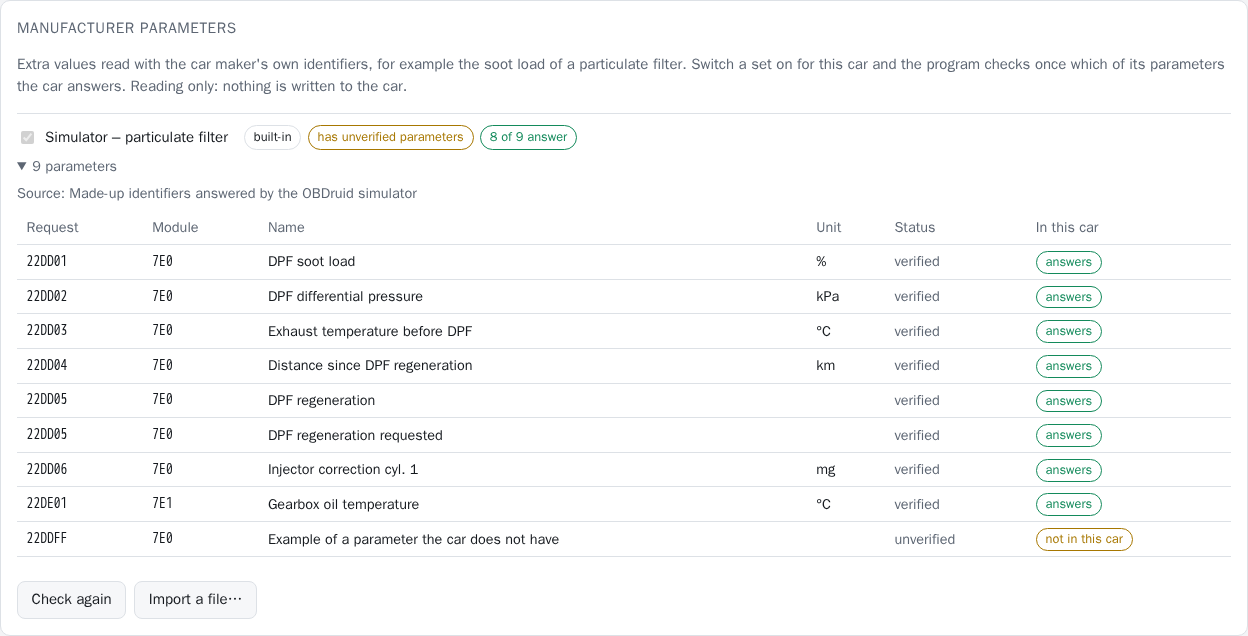
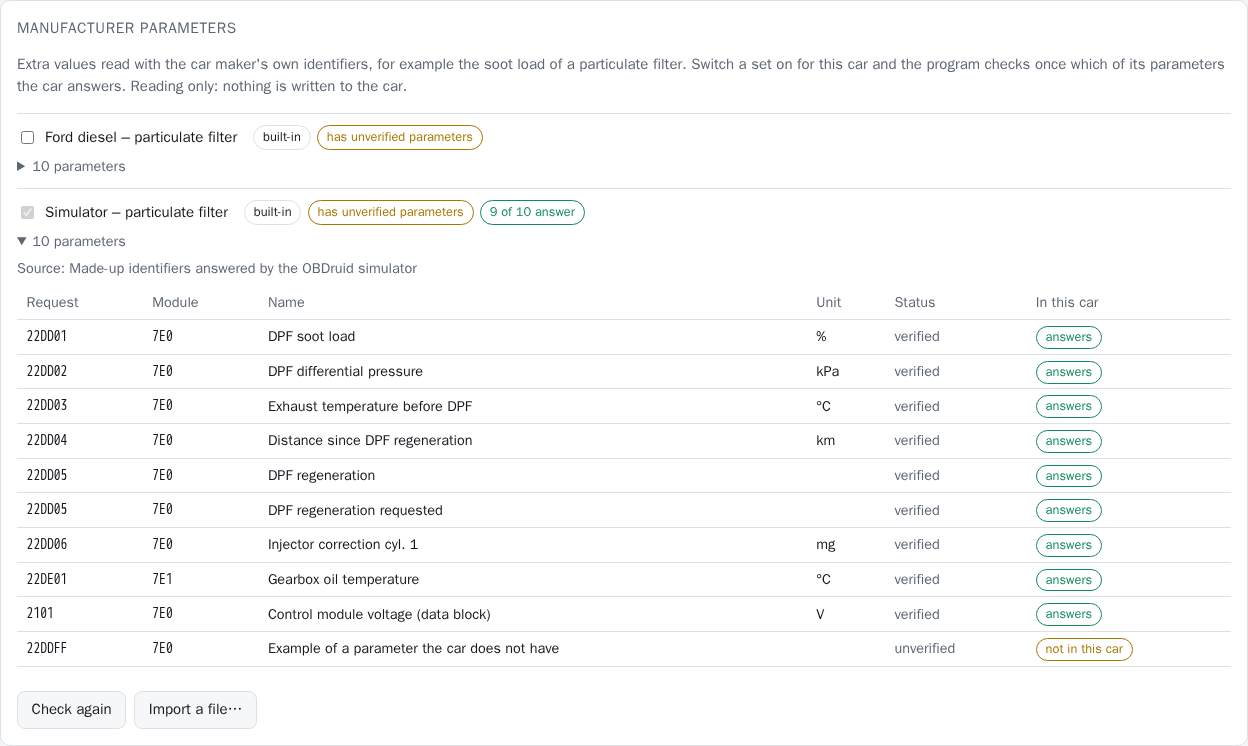
PID sets: service 21, bytes beyond Z, Ford diesel DPF candidates
- service 21 (ReadDataByLocalIdentifier) allowed next to 01 and 22; formula letters AA, AB... for long answers
- built-in set ford-diesel-dpf converted from OBDb (CC BY-SA 4.0), all parameters unverified
- set license shown in the UI and noted in the README

diff --git a/src/obdruid/web/static/app.js b/src/obdruid/web/static/app.js
@@ -1373,7 +1373,7 @@ function renderPidSets(data) {
       el("thead", {}, el("tr", {}, ...["Request", "Module", "Name", "Unit", "Status", "In this car"].map(h => el("th", { text: h })))), rows);
     const details = el("details", { class: "pidset" },
       el("summary", { text: t("{n} parameters", { n: s.params.length }) }),
-      s.source ? el("p", { class: "muted" }, `${t("Source")}: ${s.source}`) : null,
+      s.source ? el("p", { class: "muted" }, `${t("Source")}: ${s.source}` + (s.license ? ` · ${t("License")}: ${s.license}` : "")) : null,
       s.note ? el("p", { class: "muted" }, s.note) : null,
       el("div", { class: "table-wrap" }, table));
     box.append(el("div", { class: "pidset-item" }, head, details));

diff --git a/tests/test_custom_pids.py b/tests/test_custom_pids.py
@@ -68,6 +68,7 @@ formula = "A+B"
     ("(A<<8|B)&0x0FFF", bytes([0xF1, 0x23]), 0x123),
     ("-A%7+max(A,B)", bytes([10, 3]), 14),         # -10 % 7 = 4 in Python
     ("A//2", bytes([7]), 3),
+    ("AB/10+Z", bytes(25) + bytes([1, 0, 141]), 15.1),   # Z is byte 26, AA 27, AB 28
 ])
 def test_formula_values(text, data, expected):
     assert Formula(text)(data) == pytest.approx(expected)
@@ -82,7 +83,7 @@ def test_formula_reports_missing_bytes_and_bad_maths_as_no_value():
 
 @pytest.mark.parametrize("text", [
     "__import__('os').system('true')", "A.real", "open('x')", "A if B else C", "[A]", "A**B", "lambda: A",
-    "'text'", "True", "AB + 1", "a + 1", "A; B", "signed(A, x=1)", "eval(A)", "A == B", "~A", "", "A" * 300,
+    "'text'", "True", "ABC + 1", "a + 1", "A; B", "signed(A, x=1)", "eval(A)", "A == B", "~A", "", "A" * 300,
     "(" * 150 + "A" + ")" * 150,
 ])
 def test_formula_rejects_everything_but_arithmetic(text):
@@ -111,6 +112,7 @@ def test_parse_set():
     (('request = "22DDFF"', 'request = "3101FF00"'), "Service 31 is not allowed"),   # routine (forced regeneration)
     (('request = "22DDFF"', 'request = "1003"'), "Service 10 is not allowed"),       # session change
     (('request = "22DDFF"', 'request = "04"'), "Invalid request"),
+    (('request = "22DDFF"', 'request = "210101"'), "takes 1 identifier byte"),
     (('request = "22DDFF"', 'request = "22DD"'), "takes 2 identifier byte"),
     (('header = "7E2"', 'header = "720"'), "Unsupported header"),
     (('formula = "A+B"', 'formula = "__import__(1)"'), "Invalid formula"),
@@ -132,7 +134,13 @@ def test_parse_set_refuses_broken_files():
 
 def test_builtin_sets_are_valid_and_translated(tmp_path):
     sets, errors = custom_pids.load_sets(None)
-    assert errors == [] and "simulator" in [s.id for s in sets]
+    assert errors == [] and {"simulator", "ford-diesel-dpf"} <= {s.id for s in sets}
+    ford = next(s for s in sets if s.id == "ford-diesel-dpf")
+    assert ford.license == "CC BY-SA 4.0" and "OBDb" in ford.source          # attribution travels with the data
+    assert all(p.status == "unverified" for p in ford.params)                # nothing claimed before a car test
+    assert ford.suggested_for("WF0XXXTTFX1234567", 2010, "diesel") and not ford.suggested_for(None, None, "diesel")
+    assert custom_pids.byte_name(0) == "A" and custom_pids.byte_name(27) == "AB"
+    assert all(custom_pids.byte_index(custom_pids.byte_name(n)) == n for n in range(700))
     for s in sets:
         assert s.source, s.id                      # every shipped set says where its data comes from
         for p in s.params:
@@ -148,6 +156,9 @@ def test_builtin_sets_are_valid_and_translated(tmp_path):
 def test_read_did(session):
     vin = session.read_did("22 f1 90")
     assert vin.ok and vin.data == b"SIM1234567890ABCD" and vin.result == "ok"   # multi frame answer
+    block = session.read_did("2101")                                             # service 21 data block
+    assert block.ok and len(block.data) == 32 and block.data[27] == 141
+    assert session.read_did("2102").nrc == 0x31
     refused = session.read_did("22DDFF")
     assert not refused.ok and refused.nrc == 0x31 and refused.result == "nrc31"
     assert session.read_did("22DE01", "7E1").data is not None                   # transmission module
@@ -201,14 +212,14 @@ def test_one_request_serves_all_parameters_of_an_identifier(tmp_path):
         assert results["X_SIMULATOR_NOT_IN_THIS_CAR"] == "nrc31"
         assert storage.get(vehicle["id"])["pid_probe"] == results           # remembered in the profile
         keys = [p.key for p in s.supported_params() if p.source == "simulator"]
-        assert "X_SIMULATOR_NOT_IN_THIS_CAR" not in keys and len(keys) == 8
+        assert "X_SIMULATOR_NOT_IN_THIS_CAR" not in keys and len(keys) == 9
         seen = s._emulator.commands_seen
         before = len(seen)
         values = {r.key: r.value for r in s.read(keys)}
         assert seen[before:].count("22DD05") == 1                             # two parameters, one request
         assert values["X_SIMULATOR_DPF_REGEN"] == "active" and values["X_SIMULATOR_DPF_REGEN_REQUEST"] == "yes"
         assert values["X_SIMULATOR_DPF_TEMP"] > 550 and values["X_SIMULATOR_INJ_CORRECTION_1"] == -0.35
-        assert 70 < values["X_SIMULATOR_GEARBOX_OIL_TEMP"] < 85
+        assert 70 < values["X_SIMULATOR_GEARBOX_OIL_TEMP"] < 85 and values["X_SIMULATOR_MODULE_VOLTAGE"] == 14.1
         # the second connection does not probe again
         before = len(seen)
         custom_pids.apply(s, storage, storage.get(vehicle["id"]))
@@ -217,7 +228,8 @@ def test_one_request_serves_all_parameters_of_an_identifier(tmp_path):
 
 def test_dpf_full_fault():
     with ObdSession(ConnectionSettings(simulate=True, sim_faults=("dpf_full",))) as s:
-        soot = next(p for p in custom_pids.load_sets(None)[0][0].params if p.name == "DPF_SOOT")
+        sim = next(x for x in custom_pids.load_sets(None)[0] if x.id == "simulator")
+        soot = next(p for p in sim.params if p.name == "DPF_SOOT")
         assert soot.decode(s.read_did(soot.request).data) == 96.0
 
 
@@ -231,27 +243,33 @@ def client(tmp_path):
 
 def test_web_sets_for_a_real_car_profile(client):
     data = client.get("/api/pidsets").json()
-    assert data["sets"] == [] and data["connected"] is False   # the simulator set is hidden without the simulator
+    ids = [s["id"] for s in data["sets"]]
+    assert "simulator" not in ids and data["connected"] is False   # the demo set is hidden without the simulator
+    ford = next(s for s in data["sets"] if s["id"] == "ford-diesel-dpf")
+    assert ford["enabled"] is False and ford["suggested"] is False and ford["license"] == "CC BY-SA 4.0"
     assert client.post("/api/pidsets", json={"text": "format = 1"}).status_code == 400
     refused = client.post("/api/pidsets", json={"text": SET.replace('"22DDFF"', '"2EDDFF"')})
     assert refused.status_code == 400 and "Service 2E is not allowed" in refused.json()["detail"]
 
+    def own(data):
+        return next(s for s in data["sets"] if s["id"] == "test-car")
+
     data = client.post("/api/pidsets", json={"text": SET}).json()
-    assert [s["id"] for s in data["sets"]] == ["test-car"]
-    assert data["sets"][0]["enabled"] is False and data["sets"][0]["builtin"] is False
+    assert own(data)["enabled"] is False and own(data)["builtin"] is False
     data = client.put("/api/pidsets/enabled", json={"ids": ["test-car", "unknown"]}).json()
-    assert data["sets"][0]["enabled"] is True
+    assert own(data)["enabled"] is True
     assert client.get("/api/vehicles").json()["vehicles"][0]["pidsets"] == ["test-car"]
     assert client.post("/api/pidsets/probe").status_code == 409            # needs a connection
-    assert client.delete("/api/pidsets/test-car").json()["sets"] == []
+    assert "test-car" not in [s["id"] for s in client.delete("/api/pidsets/test-car").json()["sets"]]
+    assert client.delete("/api/pidsets/ford-diesel-dpf").status_code == 404   # built-in sets stay
     assert client.delete("/api/pidsets/test-car").status_code == 404
 
 
 def test_web_simulator_flow(client):
     assert client.post("/api/connect", json={"simulate": True}).status_code == 200
     data = client.get("/api/pidsets").json()
-    sim = data["sets"][0]
-    assert sim["id"] == "simulator" and sim["enabled"] and sim["locked"] and data["connected"]
+    sim = next(s for s in data["sets"] if s["id"] == "simulator")
+    assert sim["enabled"] and sim["locked"] and data["connected"]
     probes = {p["name"]: p["probe"] for p in sim["params"]}
     assert probes["DPF_SOOT"] == "ok" and probes["NOT_IN_THIS_CAR"] == "nrc31"
 

diff --git a/src/obdruid/core/custom_pids.py b/src/obdruid/core/custom_pids.py
@@ -6,11 +6,12 @@ diesel particulate filter. Car makers expose such values through UDS service 22
 they live in TOML files instead of the code: built-in ones in ``core/pidsets`` and the
 user's own in the data directory.
 
-Read only by design: a set may only use service 01 or 22. Everything that writes to or
-controls a module (2E, 2F, 31, 27, 10, 14, 11...) is refused when the file is loaded.
+Read only by design: a set may only use the reading services 01, 21 (ReadDataByLocalIdentifier,
+used by e.g. Hyundai/Kia and Toyota) and 22. Everything that writes to or controls a module
+(2E, 2F, 31, 27, 10, 14, 11...) is refused when the file is loaded.
 
-Formulas use the Torque convention - A, B, C... are the data bytes of the answer - and are
-evaluated by a small whitelist interpreter (never ``eval``).
+Formulas use the Torque convention - A, B, C... Z, AA, AB... are the data bytes of the answer -
+and are evaluated by a small whitelist interpreter (never ``eval``).
 """
 
 from __future__ import annotations
@@ -33,7 +34,7 @@ MAX_FILE_SIZE = 256 * 1024
 MAX_PARAMS = 300
 
 # service id -> length of the whole request in hex digits (service + identifier)
-ALLOWED_SERVICES = {"01": 4, "22": 6}
+ALLOWED_SERVICES = {"01": 4, "21": 4, "22": 6}
 # Physical request addresses on 11 bit CAN: engine, transmission and the other emission related modules.
 # The adapter listens for 7E8-7EF by default, so these work without touching its receive filter.
 HEADERS = tuple(f"7E{n:X}" for n in range(8))
@@ -70,7 +71,7 @@ def check_request(request: str) -> str:
     service = text[:2]
     if service not in ALLOWED_SERVICES:
         raise PidSetError(f"Service {service} is not allowed (request {text}): only reading with "
-                          f"{' or '.join(sorted(ALLOWED_SERVICES))} is supported")
+                          f"{', '.join(sorted(ALLOWED_SERVICES))} is supported")
     if len(text) != ALLOWED_SERVICES[service]:
         raise PidSetError(f"Invalid request {text}: service {service} takes "
                           f"{(ALLOWED_SERVICES[service] - 2) // 2} identifier byte(s)")
@@ -82,6 +83,21 @@ def check_header(header: Optional[str]) -> str:
     if text not in HEADERS:
         raise PidSetError(f"Unsupported header {header!r}: use one of {HEADERS[0]}-{HEADERS[-1]}")
     return text
+
+
+def byte_index(name: str) -> int:
+    """Position of a formula letter in the data: A=0 ... Z=25, AA=26, AB=27 ... (as in Torque)."""
+    if len(name) == 1:
+        return ord(name) - ord("A")
+    return 26 + (ord(name[0]) - ord("A")) * 26 + (ord(name[1]) - ord("A"))
+
+
+def byte_name(index: int) -> str:
+    """Formula letter of a data byte: 0 -> A, 25 -> Z, 26 -> AA..."""
+    if index < 26:
+        return chr(ord("A") + index)
+    first, second = divmod(index - 26, 26)
+    return chr(ord("A") + first) + chr(ord("A") + second)
 
 
 def nrc_text(code: int) -> str:
@@ -154,9 +170,9 @@ class Formula:
             if isinstance(node.value, bool) or not isinstance(node.value, (int, float)):
                 self._fail("only numbers are allowed")
         elif isinstance(node, ast.Name):
-            if not re.fullmatch(r"[A-Z]", node.id):
-                self._fail(f"unknown name {node.id!r} (data bytes are A, B, C...)")
-            self.bytes_needed = max(self.bytes_needed, ord(node.id) - ord("A") + 1)
+            if not re.fullmatch(r"[A-Z]{1,2}", node.id):
+                self._fail(f"unknown name {node.id!r} (data bytes are A, B, C... Z, AA, AB...)")
+            self.bytes_needed = max(self.bytes_needed, byte_index(node.id) + 1)
         elif isinstance(node, ast.BinOp):
             if type(node.op) not in _BINARY:
                 self._fail(f"operator {type(node.op).__name__} is not allowed")
@@ -180,7 +196,7 @@ class Formula:
         if isinstance(node, ast.Constant):
             return node.value
         if isinstance(node, ast.Name):
-            return data[ord(node.id) - ord("A")]
+            return data[byte_index(node.id)]
         if isinstance(node, ast.BinOp):
             return _BINARY[type(node.op)](self._eval(node.left, data), self._eval(node.right, data))
         if isinstance(node, ast.UnaryOp):
@@ -205,7 +221,7 @@ class CustomParam:
     set_id: str
     name: str                    # key inside the set, e.g. "DPF_SOOT"
     label: str
-    request: str                 # "22XXXX" or "01XX"
+    request: str                 # "22XXXX", "21XX" or "01XX"
     header: str = DEFAULT_HEADER
     formula: Optional[Formula] = None
     map: dict[int, str] = field(default_factory=dict)   # value -> text, for states
@@ -249,6 +265,7 @@ class PidSet:
     name: str
     params: list[CustomParam]
     source: str = ""
+    license: str = ""            # license of the file when it differs from the program's (e.g. CC BY-SA 4.0)
     note: str = ""
     match: dict = field(default_factory=dict)       # wmi: [...], fuel: [...], years: [from, to], simulator: bool
     verified: list[dict] = field(default_factory=list)
@@ -276,7 +293,8 @@ class PidSet:
         return True
 
     def to_dict(self) -> dict:
-        return {"id": self.id, "name": self.name, "source": self.source, "note": self.note, "match": self.match,
+        return {"id": self.id, "name": self.name, "source": self.source, "license": self.license,
+                "note": self.note, "match": self.match,
                 "verified": self.verified, "builtin": self.builtin,
                 "params": [p.to_dict() for p in self.params]}
 
@@ -401,6 +419,7 @@ def parse_set(text: str, builtin: bool = False, path: str = "") -> PidSet:
     if not isinstance(verified, list) or not all(isinstance(v, dict) for v in verified):
         raise PidSetError("'verified' must be a list of [[verified]] tables")
     return PidSet(id=set_id, name=name, params=params, source=_text(data, "source", "Set", limit=400),
+                  license=_text(data, "license", "Set", limit=80),
                   note=_text(data, "note", "Set", limit=600), match=_parse_match(data.get("match", {})),
                   verified=[{k: str(v)[:120] for k, v in entry.items()} for entry in verified],
                   builtin=builtin, path=path)

diff --git a/src/obdruid/core/simulator.py b/src/obdruid/core/simulator.py
@@ -6,7 +6,8 @@ set-up as the test car. It answers AT commands, mode 01 (live data), 02 (freeze
 frame), 03/07/0A (stored, pending and permanent trouble codes), 04 (clear codes),
 06 (on-board monitor test results) and 09 02 (VIN). It also answers a few made-up
 manufacturer identifiers (service 22) - a particulate filter on the engine ECU and
-one value on a transmission module at 7E1 - for the built-in "simulator" PID set.
+one value on a transmission module at 7E1 - and one service 21 data block, for the
+built-in "simulator" PID set.
 
 Faults can be injected to see what a bad health check looks like, see FAULTS.
 
@@ -283,6 +284,8 @@ class Elm327Emulator:
             return ["NO DATA"]   # nobody listens at this address
         if mode == 0x22:
             return self._format(self._mode22(cmd, self._engine_dids()))
+        if mode == 0x21:
+            return self._format(self._mode21(cmd))
         if mode == 0x01 and len(cmd) == 4:
             data = self._mode01(int(cmd[2:4], 16))
         elif mode == 0x02 and len(cmd) == 6:
@@ -517,6 +520,16 @@ class Elm327Emulator:
 
     def _transmission_dids(self) -> dict[int, bytes]:
         return {0xDE01: bytes([int(78 + self.engine.noise(1) + 40)])}   # oil temperature, 78 °C
+
+    def _mode21(self, cmd: str) -> bytes:
+        """One long data block the way Hyundai/Kia and Toyota engine modules answer service 21."""
+        if len(cmd) != 4:
+            return bytes([0x7F, 0x21, 0x13])
+        if cmd[2:4] != "01":
+            return bytes([0x7F, 0x21, 0x31])
+        block = bytearray(32)
+        block[27] = int(round(self._voltage() * 10))     # byte AB: control module voltage, 0.1 V
+        return bytes([0x61, 0x01]) + bytes(block)
 
     def _mode22(self, cmd: str, dids: dict[int, bytes]) -> bytes:
         if len(cmd) != 6:

diff --git a/src/obdruid/cli.py b/src/obdruid/cli.py
@@ -200,14 +200,14 @@ def pids(ctx: typer.Context):
 @app.command()
 def did(
     ctx: typer.Context,
-    request: str = typer.Argument(..., help="Request in hex: 22 + identifier (e.g. 22F190) or 01 + PID."),
+    request: str = typer.Argument(..., help="Request in hex: 22 + identifier (e.g. 22F190), 21 + local identifier or 01 + PID."),
     header: str = typer.Option("7E0", "--header", "-H", help="Module address: 7E0 engine, 7E1 transmission ... 7E7."),
 ):
-    """Read one manufacturer identifier (UDS service 22) and show the raw answer.
+    """Read one manufacturer identifier (service 22 or 21) and show the raw answer.
 
     For checking PID set definitions. Read only: other services are refused.
     """
-    from .core.custom_pids import nrc_text
+    from .core.custom_pids import byte_name, nrc_text
 
     try:
         with _open(ctx) as s:
@@ -218,7 +218,7 @@ def did(
         data = answer.data or b""
         console.print(f"[bold]{answer.request}[/] from {answer.header}: [bold cyan]{data.hex(' ').upper() or '(no data)'}[/]"
                       f"  ({len(data)} byte{'s' if len(data) != 1 else ''})")
-        letters = "  ".join(f"{chr(65 + n)}={b}" for n, b in enumerate(data[:26]))
+        letters = "  ".join(f"{byte_name(n)}={b}" for n, b in enumerate(data[:64]))
         if letters:
             console.print(f"Formula bytes: {letters}")
         if data and all(32 <= b < 127 for b in data):

diff --git a/README.md b/README.md
@@ -270,14 +270,15 @@ PID 5E. “Save & reset trip” keeps the trip in the history.
 ### Manufacturer parameters (PID sets)
 
 Standard OBD-II does not show everything the car knows – the soot load of a diesel particulate
-filter, for example, is only available under the car maker's own identifiers (UDS service 22).
+filter, for example, is only available under the car maker's own identifiers (UDS service 22, or
+service 21 on e.g. Hyundai/Kia and Toyota).
 OBDruid reads such values from **PID set files**, so a new car needs a text file, not new code.
 
 - *Vehicle info → Manufacturer parameters*: switch a set on for the car. The program asks once for
   every parameter of the set ("probing") and keeps the ones the car answers; they then appear among
   the normal parameters – dashboard tiles, charts, alarms, CSV, `obdruid live`.
-- **Reading only.** A set may use service 22 (and mode 01) – nothing else. Requests that write to or
-  control a module (2E, 2F, 31, session changes...) are refused when the file is loaded.
+- **Reading only.** A set may use the reading services 22, 21 and 01 – nothing else. Requests that
+  write to or control a module (2E, 2F, 31, session changes...) are refused when the file is loaded.
 - Works on cars with 11-bit CAN, with the modules at `7E0`–`7E7` (engine, transmission...).
 - Parameters marked **unverified** come from lists that were not confirmed on a real car: check the
   values before you rely on them.
@@ -287,6 +288,13 @@ OBDruid reads such values from **PID set files**, so a new car needs a text file
 | Sets for the car | On the dashboard |
 |---|---|
 | ![PID sets](docs/screenshots/sim-pid-sets.png) | ![DPF tiles](docs/screenshots/sim-dashboard-dpf.png) |
+
+Sets that come with the program:
+
+| Set | For | Status |
+|---|---|---|
+| Ford diesel – particulate filter | soot load, distance since regeneration, regeneration status, differential pressure, exhaust temperatures | **unverified** candidates converted from [OBDb/Ford](https://github.com/OBDb/Ford) (CC BY-SA 4.0); not yet confirmed on a car |
+| Simulator – particulate filter | demo for `--sim` | made-up identifiers |
 
 Your own set is a TOML file, imported in the same card (or put in `~/.local/share/obdruid/pidsets/`):
 
@@ -305,9 +313,9 @@ years = [2006, 2014]
 key = "DPF_SOOT"
 label = "DPF soot load"
 label_pl = "Zapełnienie DPF sadzą"   # optional Polish label
-request = "22XXXX"               # service 22 + identifier
+request = "22XXXX"               # service 22 + identifier (or 21XX, 01XX)
 header = "7E0"                   # module address, default 7E0 (engine)
-formula = "(A*256+B)/100"        # A, B, C... = data bytes of the answer
+formula = "(A*256+B)/100"        # A, B, C... Z, AA, AB... = data bytes of the answer
 unit = "%"
 decimals = 1
 interval = 5                     # seconds between reads (optional)
@@ -323,7 +331,7 @@ operations (`& | ^ << >>`) and `signed(A)`, `signed(A,B)`, `bit(A,n)`, `abs()`, 
 A state instead of a number: `map = { 0 = "idle", 1 = "active" }`. Several parameters may share one
 identifier (different bytes or bits) – it is asked for only once per read.
 
-`obdruid did 22XXXX [--header 7E1]` shows the raw bytes of one identifier, with the letters the
+`obdruid did 22XXXX [--header 7E1]` (or `obdruid did 21XX`) shows the raw bytes of one identifier, with the letters the
 formula will see – handy for checking a definition. A complete example is
 [`simulator.toml`](src/obdruid/core/pidsets/simulator.toml). Found identifiers that work on your
 car? Please share them in an issue or a pull request.
@@ -503,6 +511,10 @@ OBDruid is free software: you can redistribute it and/or modify it under the ter
 GNU General Public License as published by the Free Software Foundation, either
 [version 2 of the License](LICENSE), or (at your option) any later version
 (SPDX: `GPL-2.0-or-later`).
+
+PID set files converted from community databases keep the license of their source, stated at the
+top of each file: [`ford-diesel-dpf.toml`](src/obdruid/core/pidsets/ford-diesel-dpf.toml) is derived
+from [OBDb](https://github.com/OBDb) and licensed CC BY-SA 4.0.
 
 This program is distributed in the hope that it will be useful, but WITHOUT ANY WARRANTY;
 without even the implied warranty of MERCHANTABILITY or FITNESS FOR A PARTICULAR PURPOSE.

diff --git a/CHANGELOG.md b/CHANGELOG.md
@@ -8,6 +8,8 @@
   once and then shown like any other parameter (dashboard, CSV, `obdruid live`). Read only by design.
   New card in *Vehicle info*, `obdruid did` for a single raw read, a demo set in the simulator
   (`--sim-fault dpf_regen`, `dpf_full`).
+- First set for real cars: **Ford diesel – particulate filter**, candidates converted from OBDb (CC BY-SA 4.0),
+  marked unverified until confirmed on a car. Service 21 data blocks (Hyundai/Kia, Toyota) can be read too.
 
 ### Changed
 - Python 3.11 or newer is required (3.10 reached its end of life); CI runs on 3.11–3.14.
